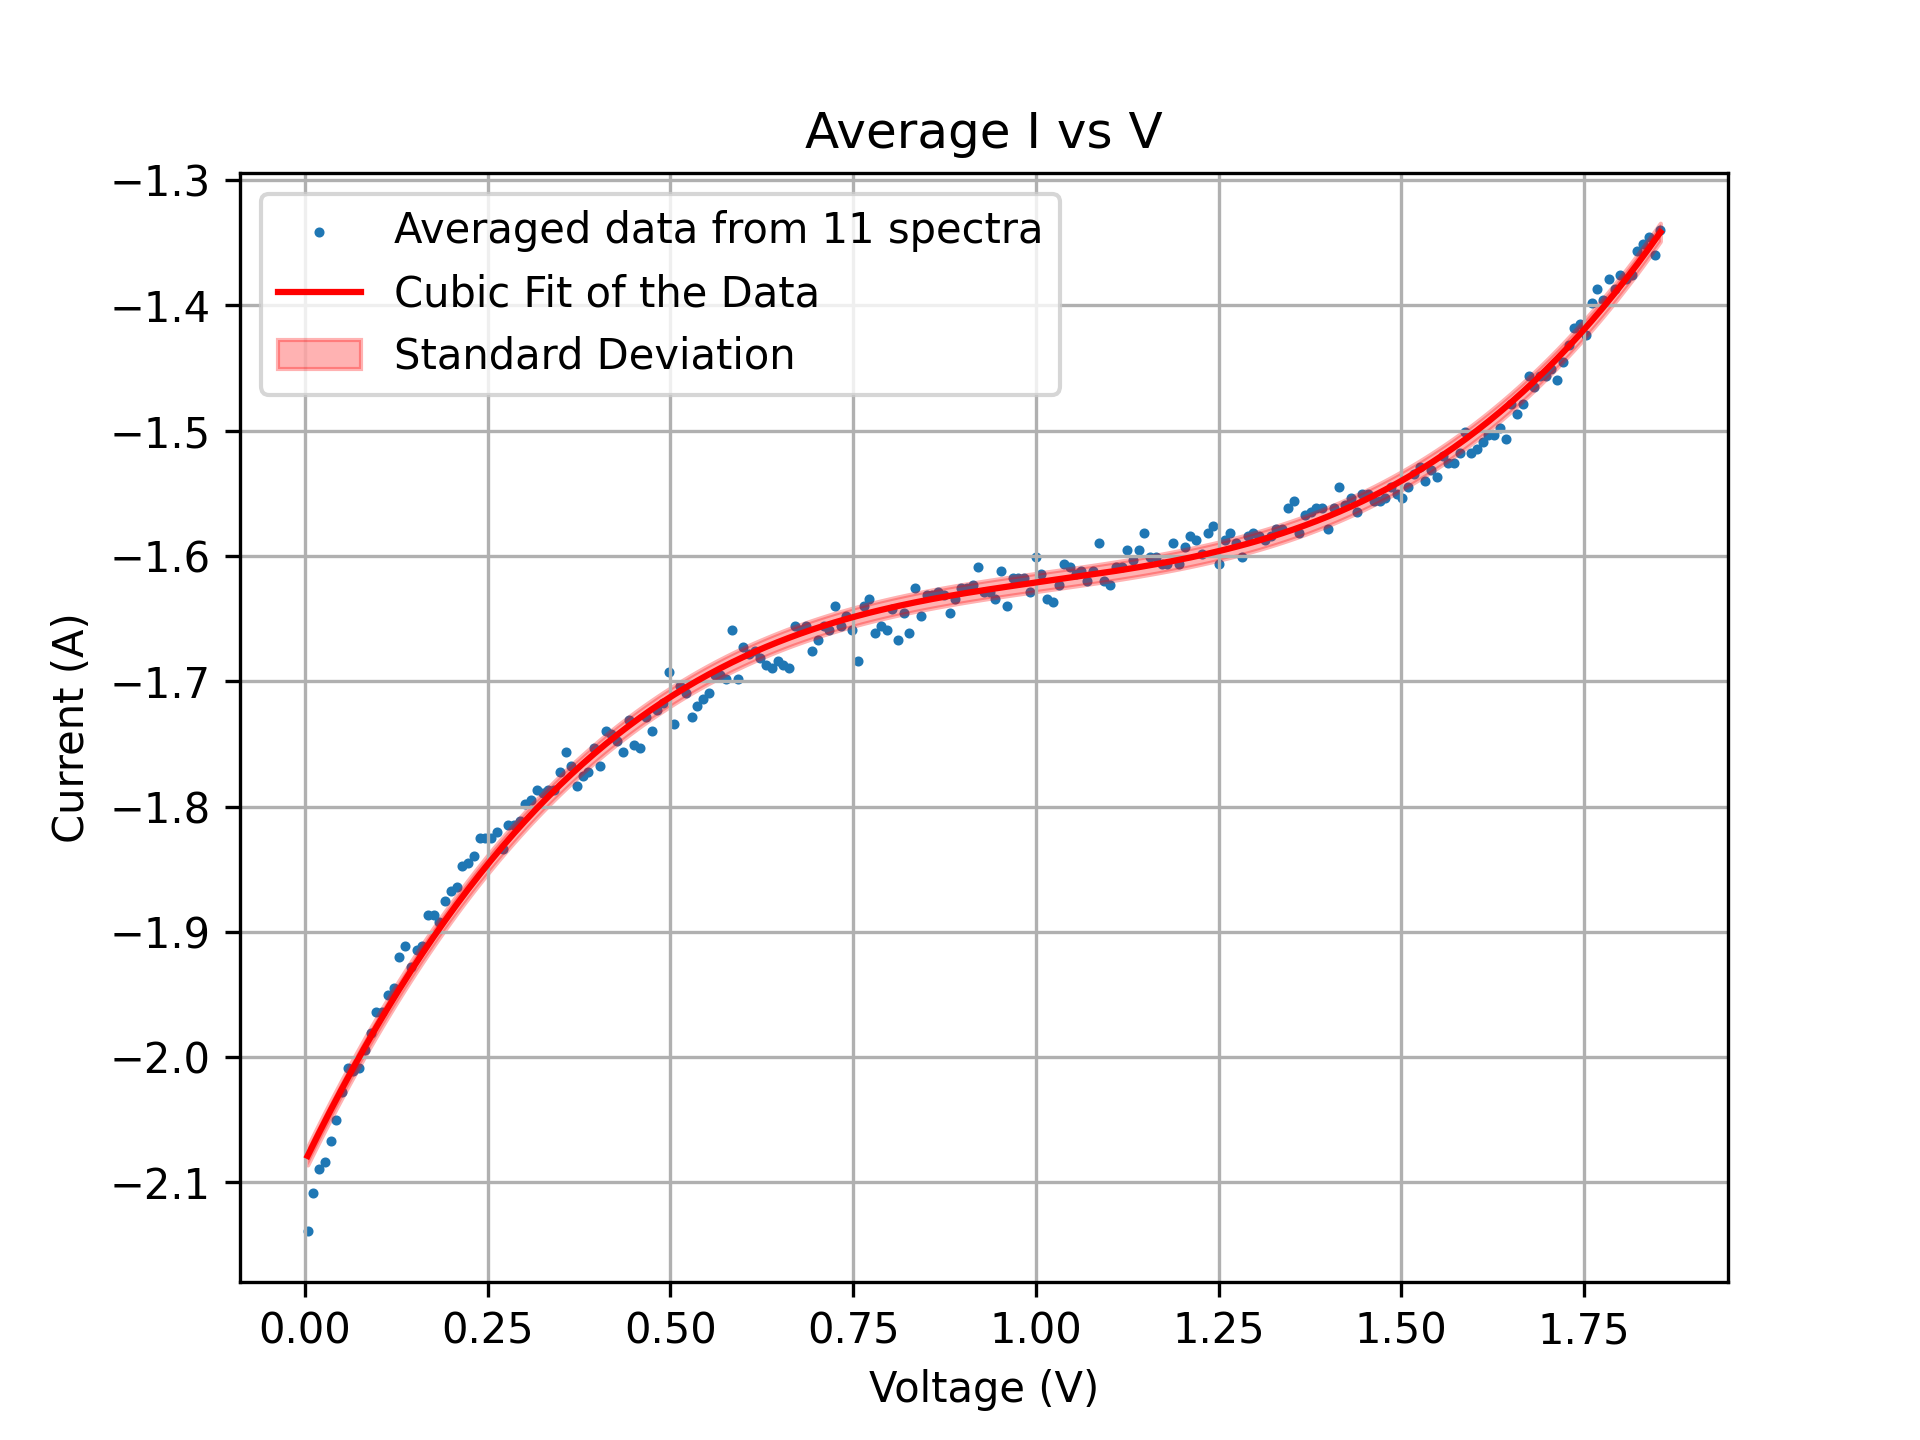
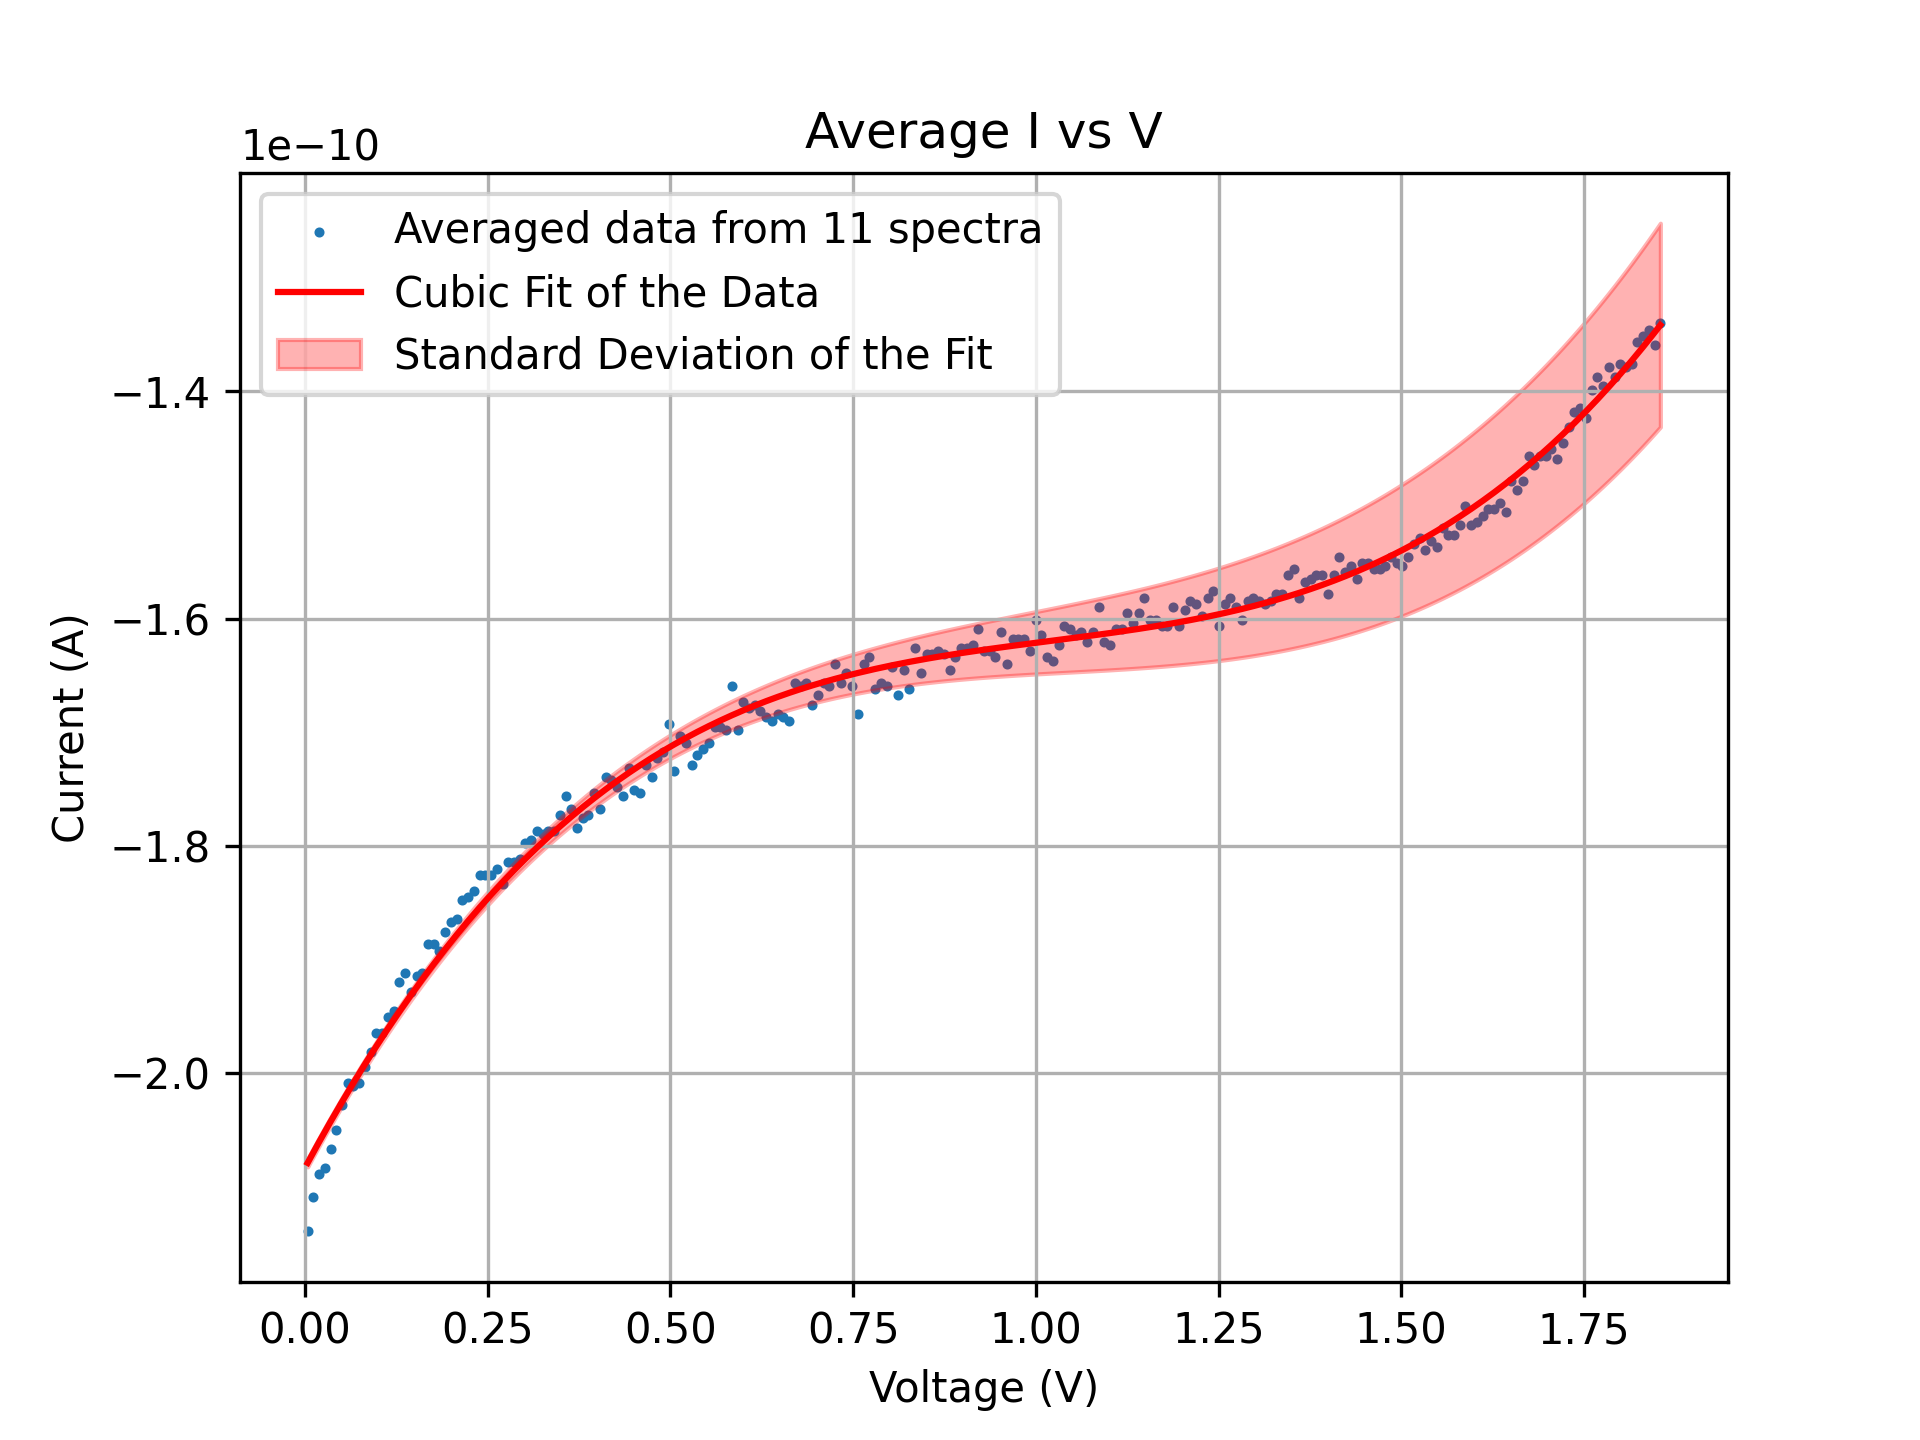
Added band gap calculation for Si

diff --git a/IVSpecSi.py b/IVSpecSi.py
@@ -28,7 +28,7 @@ for filename in os.listdir(directory):
         all_I_values.append(I_values)
         # Convert lists to numpy arrays for easier manipulation
 all_V_values = np.array(all_V_values)
-all_I_values = np.array(all_I_values)*1e10
+all_I_values = np.array(all_I_values)
 # Shift I values such that data goes through (0,0)
 for i in range(len(all_I_values)):
     all_I_values[i] += all_I_values[i][0]
@@ -49,7 +49,7 @@ plt.grid(True)
 plt.savefig('Produced_Plots/Silicon/IV_Si_Average.png',dpi=300)
 plt.show()
 # Filter the average I and V to where average V > 0
-positive_indices = average_V > 0
+positive_indices = (average_V > 0) 
 average_V = average_V[positive_indices]
 average_I = average_I[positive_indices]
 std_I = std_I[positive_indices]
@@ -62,16 +62,20 @@ params, covariance = curve_fit(cubic_function, average_V, average_I)
 
 # Calculate the standard deviation errors on the parameters
 errors = np.sqrt(np.diag(covariance))
-
+print('Errors:',errors)
 # Print the fit equation with parameters
 print(f"Fitted cubic equation: I = ({params[0]:.3e})*V^3 + ({params[1]:.3e})*V^2 + ({params[2]:.3e})*V + ({params[3]:.3e})")
 print(f"Parameter errors: {errors}")
+# Calculate the standard deviation on the fit for all values of V
+fit_std = np.sqrt(np.sum((np.array([average_V**3, average_V**2, average_V, np.ones_like(average_V)]) * errors[:, np.newaxis])**2, axis=0))
 
+# Print the standard deviation on the fit
+print('Standard deviation on the fit for all values of V:', fit_std)
 # Generate the fitted curve
 fit = cubic_function(average_V, *params)
 plt.scatter(average_V, average_I, label=f'Averaged data from {file_count} spectra', s=2)  # 's=10' sets the size of the points
 plt.plot(average_V, fit, 'r-', label='Cubic Fit of the Data')  # 'r-' for red line
-plt.fill_between(average_V,fit - errors[0],fit + errors[0], color='r', alpha=0.3, label='Standard Deviation')
+plt.fill_between(average_V,fit - fit_std,fit + fit_std, color='r', alpha=0.3, label='Standard Deviation of the Fit')
 plt.legend()
 plt.grid(True)
 plt.xlabel('Voltage (V)')
@@ -99,7 +103,7 @@ dIdV_over_IoverV_error = np.sqrt((dIdV_error / I_over_V)**2 + (dIdV * I_over_V_e
 
 # Plot (dI/dV)/(I/V) with error bars
 plt.plot(average_V, dIdV_over_IoverV, label='Derivative of fitted curve')  # 'ro' for red points only
-plt.fill_between(average_V, dIdV_over_IoverV - dIdV_over_IoverV_error, dIdV_over_IoverV + dIdV_over_IoverV_error, color='r', alpha=0.5, label='Error')
+plt.fill_between(average_V, dIdV_over_IoverV - dIdV_over_IoverV_error, dIdV_over_IoverV + dIdV_over_IoverV_error, color='r', alpha=0.5, label='Standard Deviation')
 plt.grid(True)
 plt.legend()
 plt.xlabel('Voltage (V)')
@@ -107,3 +111,39 @@ plt.ylabel('(dI/dV)/(I/V)')
 plt.title('(dI/dV)/(I/V) vs V')
 plt.savefig('Produced_Plots/Silicon/IV_Si_dIdV_over_IoverV.png', dpi=300)
 plt.show()
+
+# Find the indices where average_V > 0.8
+valid_indices = np.where(average_V > 0.8)
+possible_V_vals = []
+# Extract valid values
+valid_V = average_V[valid_indices]
+valid_dIdV_over_IoverV = dIdV_over_IoverV[valid_indices]
+valid_dIdV_over_IoverV_error = dIdV_over_IoverV_error[valid_indices]
+
+# Find the maximum value of dIdV_over_IoverV in the valid range and its index
+max_index = np.argmax(valid_dIdV_over_IoverV)
+max_value = valid_dIdV_over_IoverV[max_index]
+max_value_error = valid_dIdV_over_IoverV_error[max_index]
+max_value_voltage = valid_V[max_index]
+possible_V_vals.append(max_value_voltage)
+# Print the maximum value and its error
+print(f"Maximum value of (dI/dV)/(I/V) in the range V > 0.8V: {max_value:.3e} ± {max_value_error:.3e} at V = {max_value_voltage:.3e}V")
+
+# Find the maximum value of dIdV_over_IoverV - dIdV_over_IoverV_error in the valid range and its index
+max_minus_error_index = np.argmax(valid_dIdV_over_IoverV - valid_dIdV_over_IoverV_error)
+max_minus_error_value = valid_dIdV_over_IoverV[max_minus_error_index] - valid_dIdV_over_IoverV_error[max_minus_error_index]
+max_minus_error_voltage = valid_V[max_minus_error_index]
+possible_V_vals.append(max_minus_error_voltage)
+# Print the maximum value minus error
+print(f"Maximum value of (dI/dV)/(I/V) - error in the range V > 0.8V: {max_minus_error_value:.3e} at V = {max_minus_error_voltage:.3e}V")
+
+# Find the maximum value of dIdV_over_IoverV + dIdV_over_IoverV_error in the valid range and its index
+max_plus_error_index = np.argmax(valid_dIdV_over_IoverV + valid_dIdV_over_IoverV_error)
+max_plus_error_value = valid_dIdV_over_IoverV[max_plus_error_index] + valid_dIdV_over_IoverV_error[max_plus_error_index]
+max_plus_error_voltage = valid_V[max_plus_error_index]
+possible_V_vals.append(max_plus_error_voltage)
+# Print the maximum value plus error
+print(f"Maximum value of (dI/dV)/(I/V) + error in the range V > 0.8V: {max_plus_error_value:.3e} at V = {max_plus_error_voltage:.3e}V")
+average_band_gap = np.mean(possible_V_vals)
+band_gap_error = np.std(possible_V_vals)
+print(f"Average band gap: {average_band_gap:.3e} ± {band_gap_error:.3e}V")
